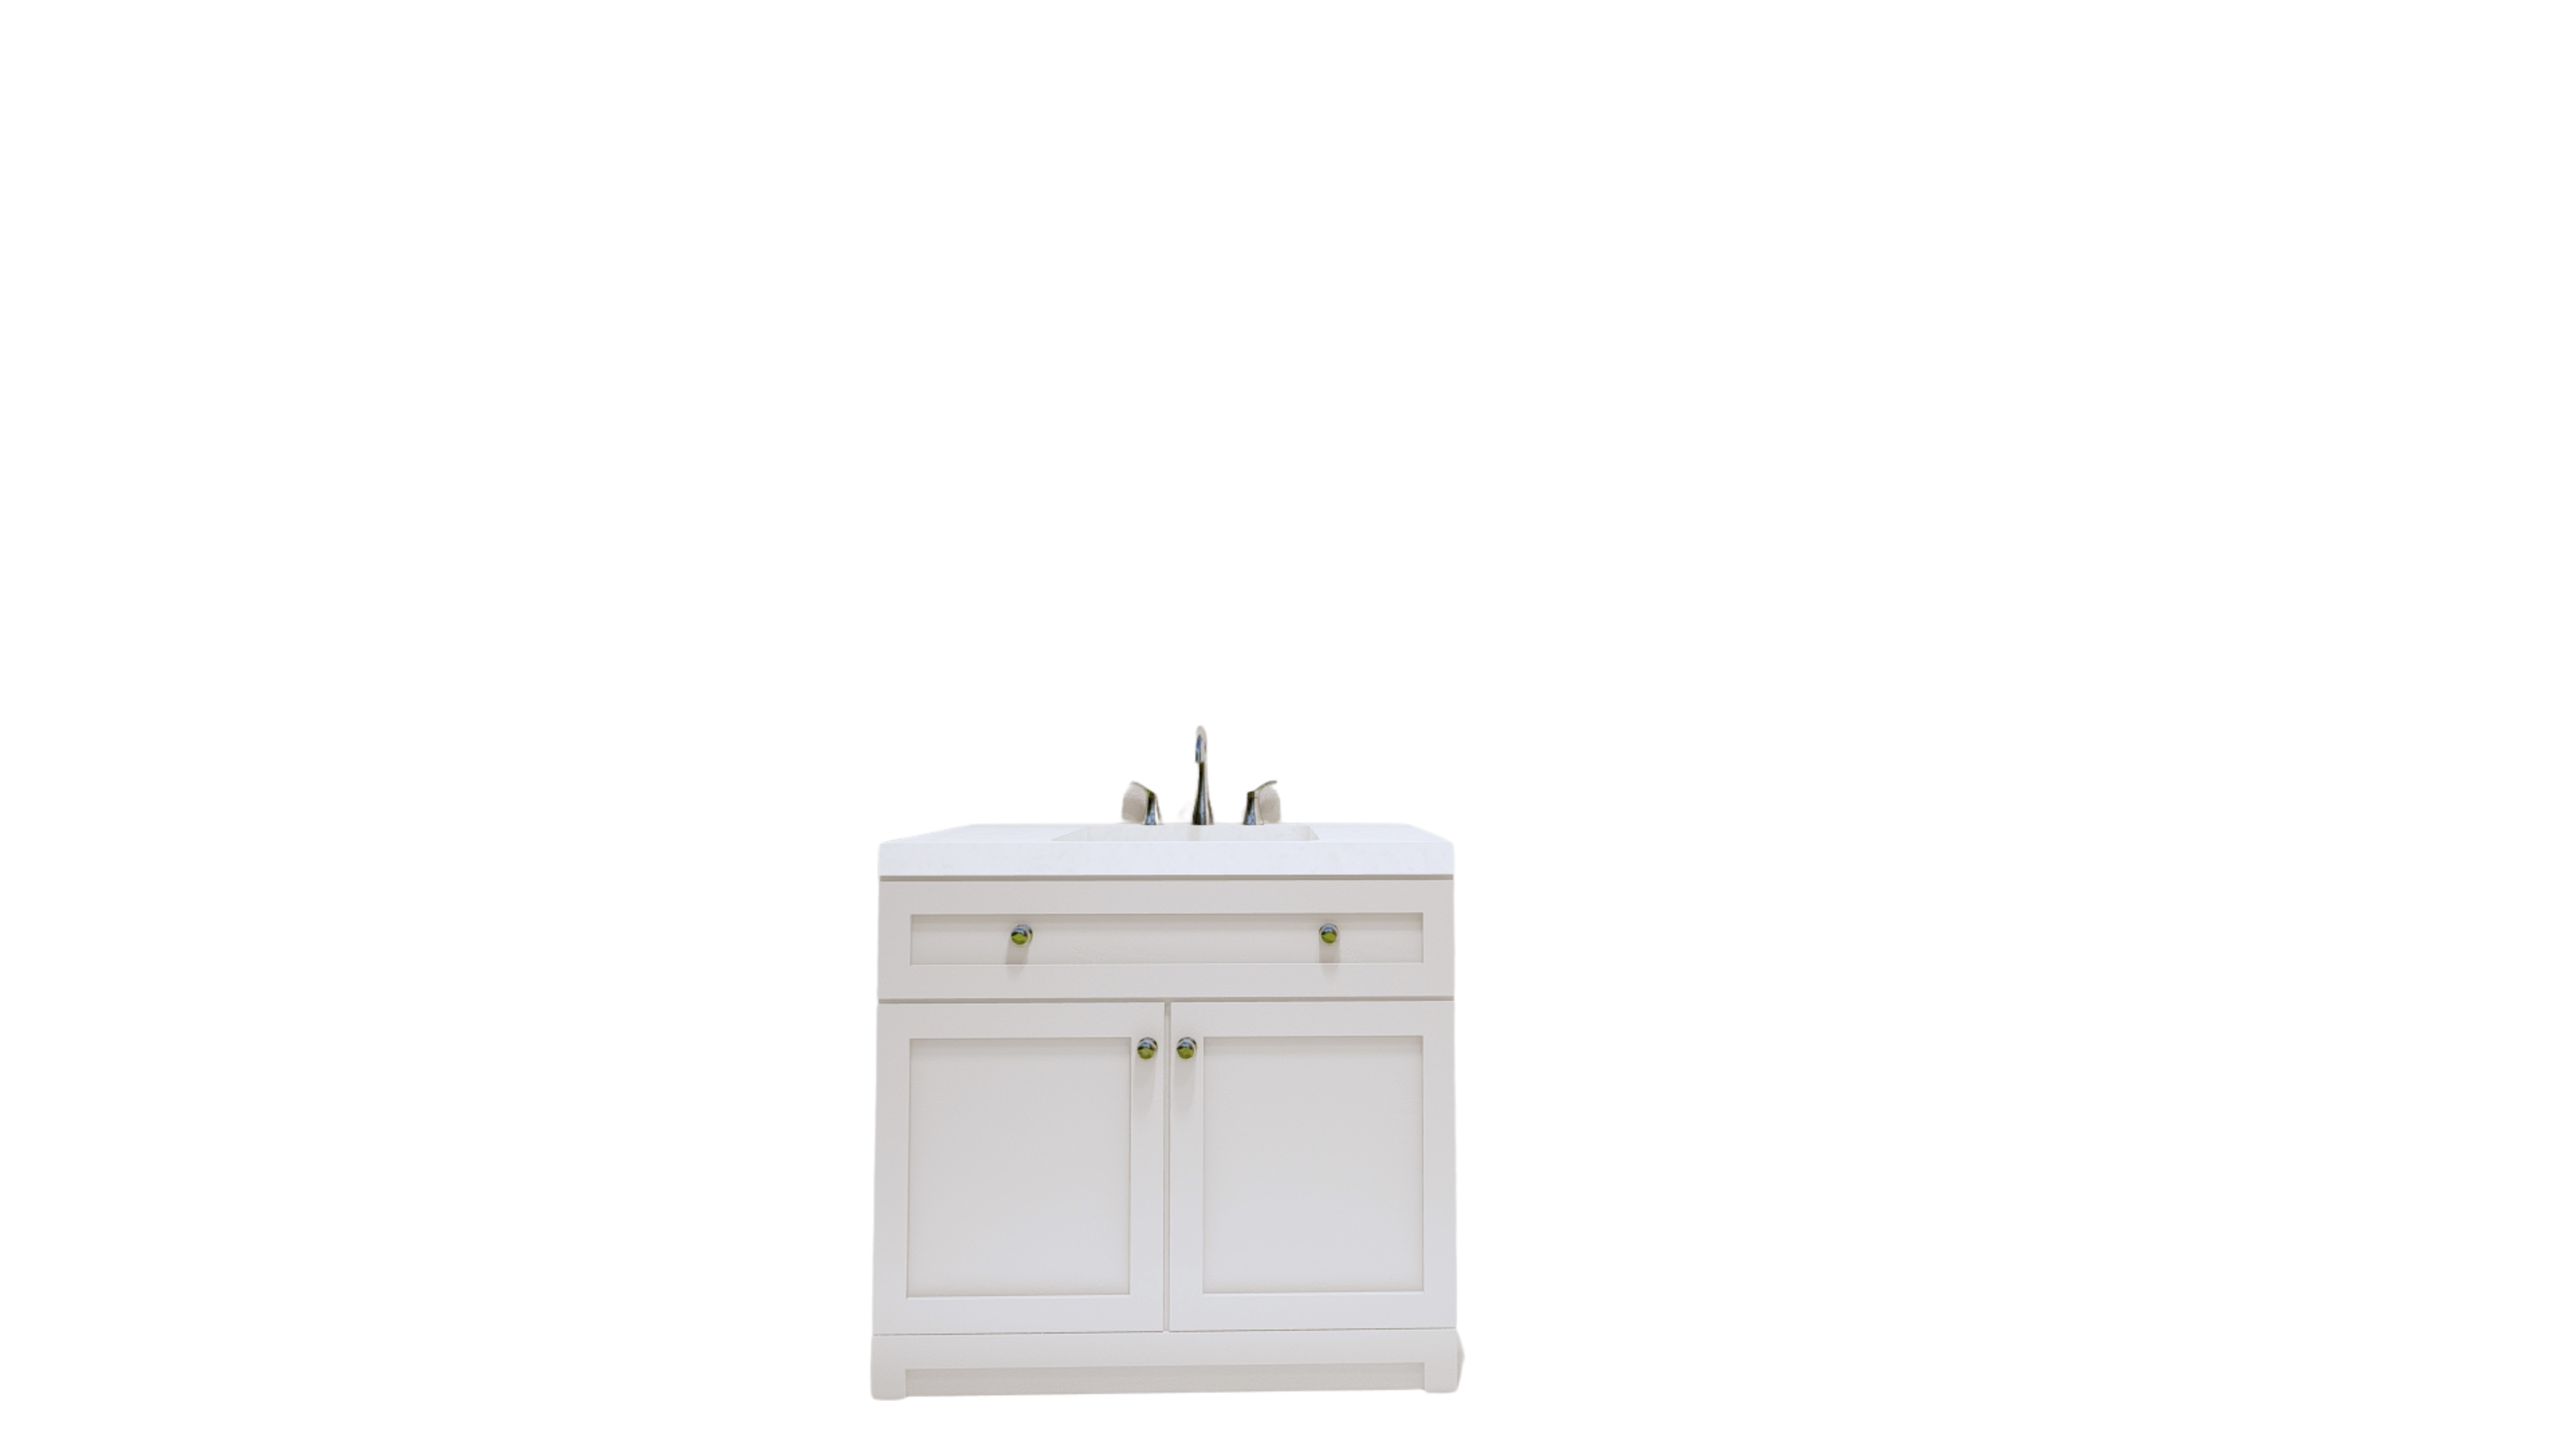
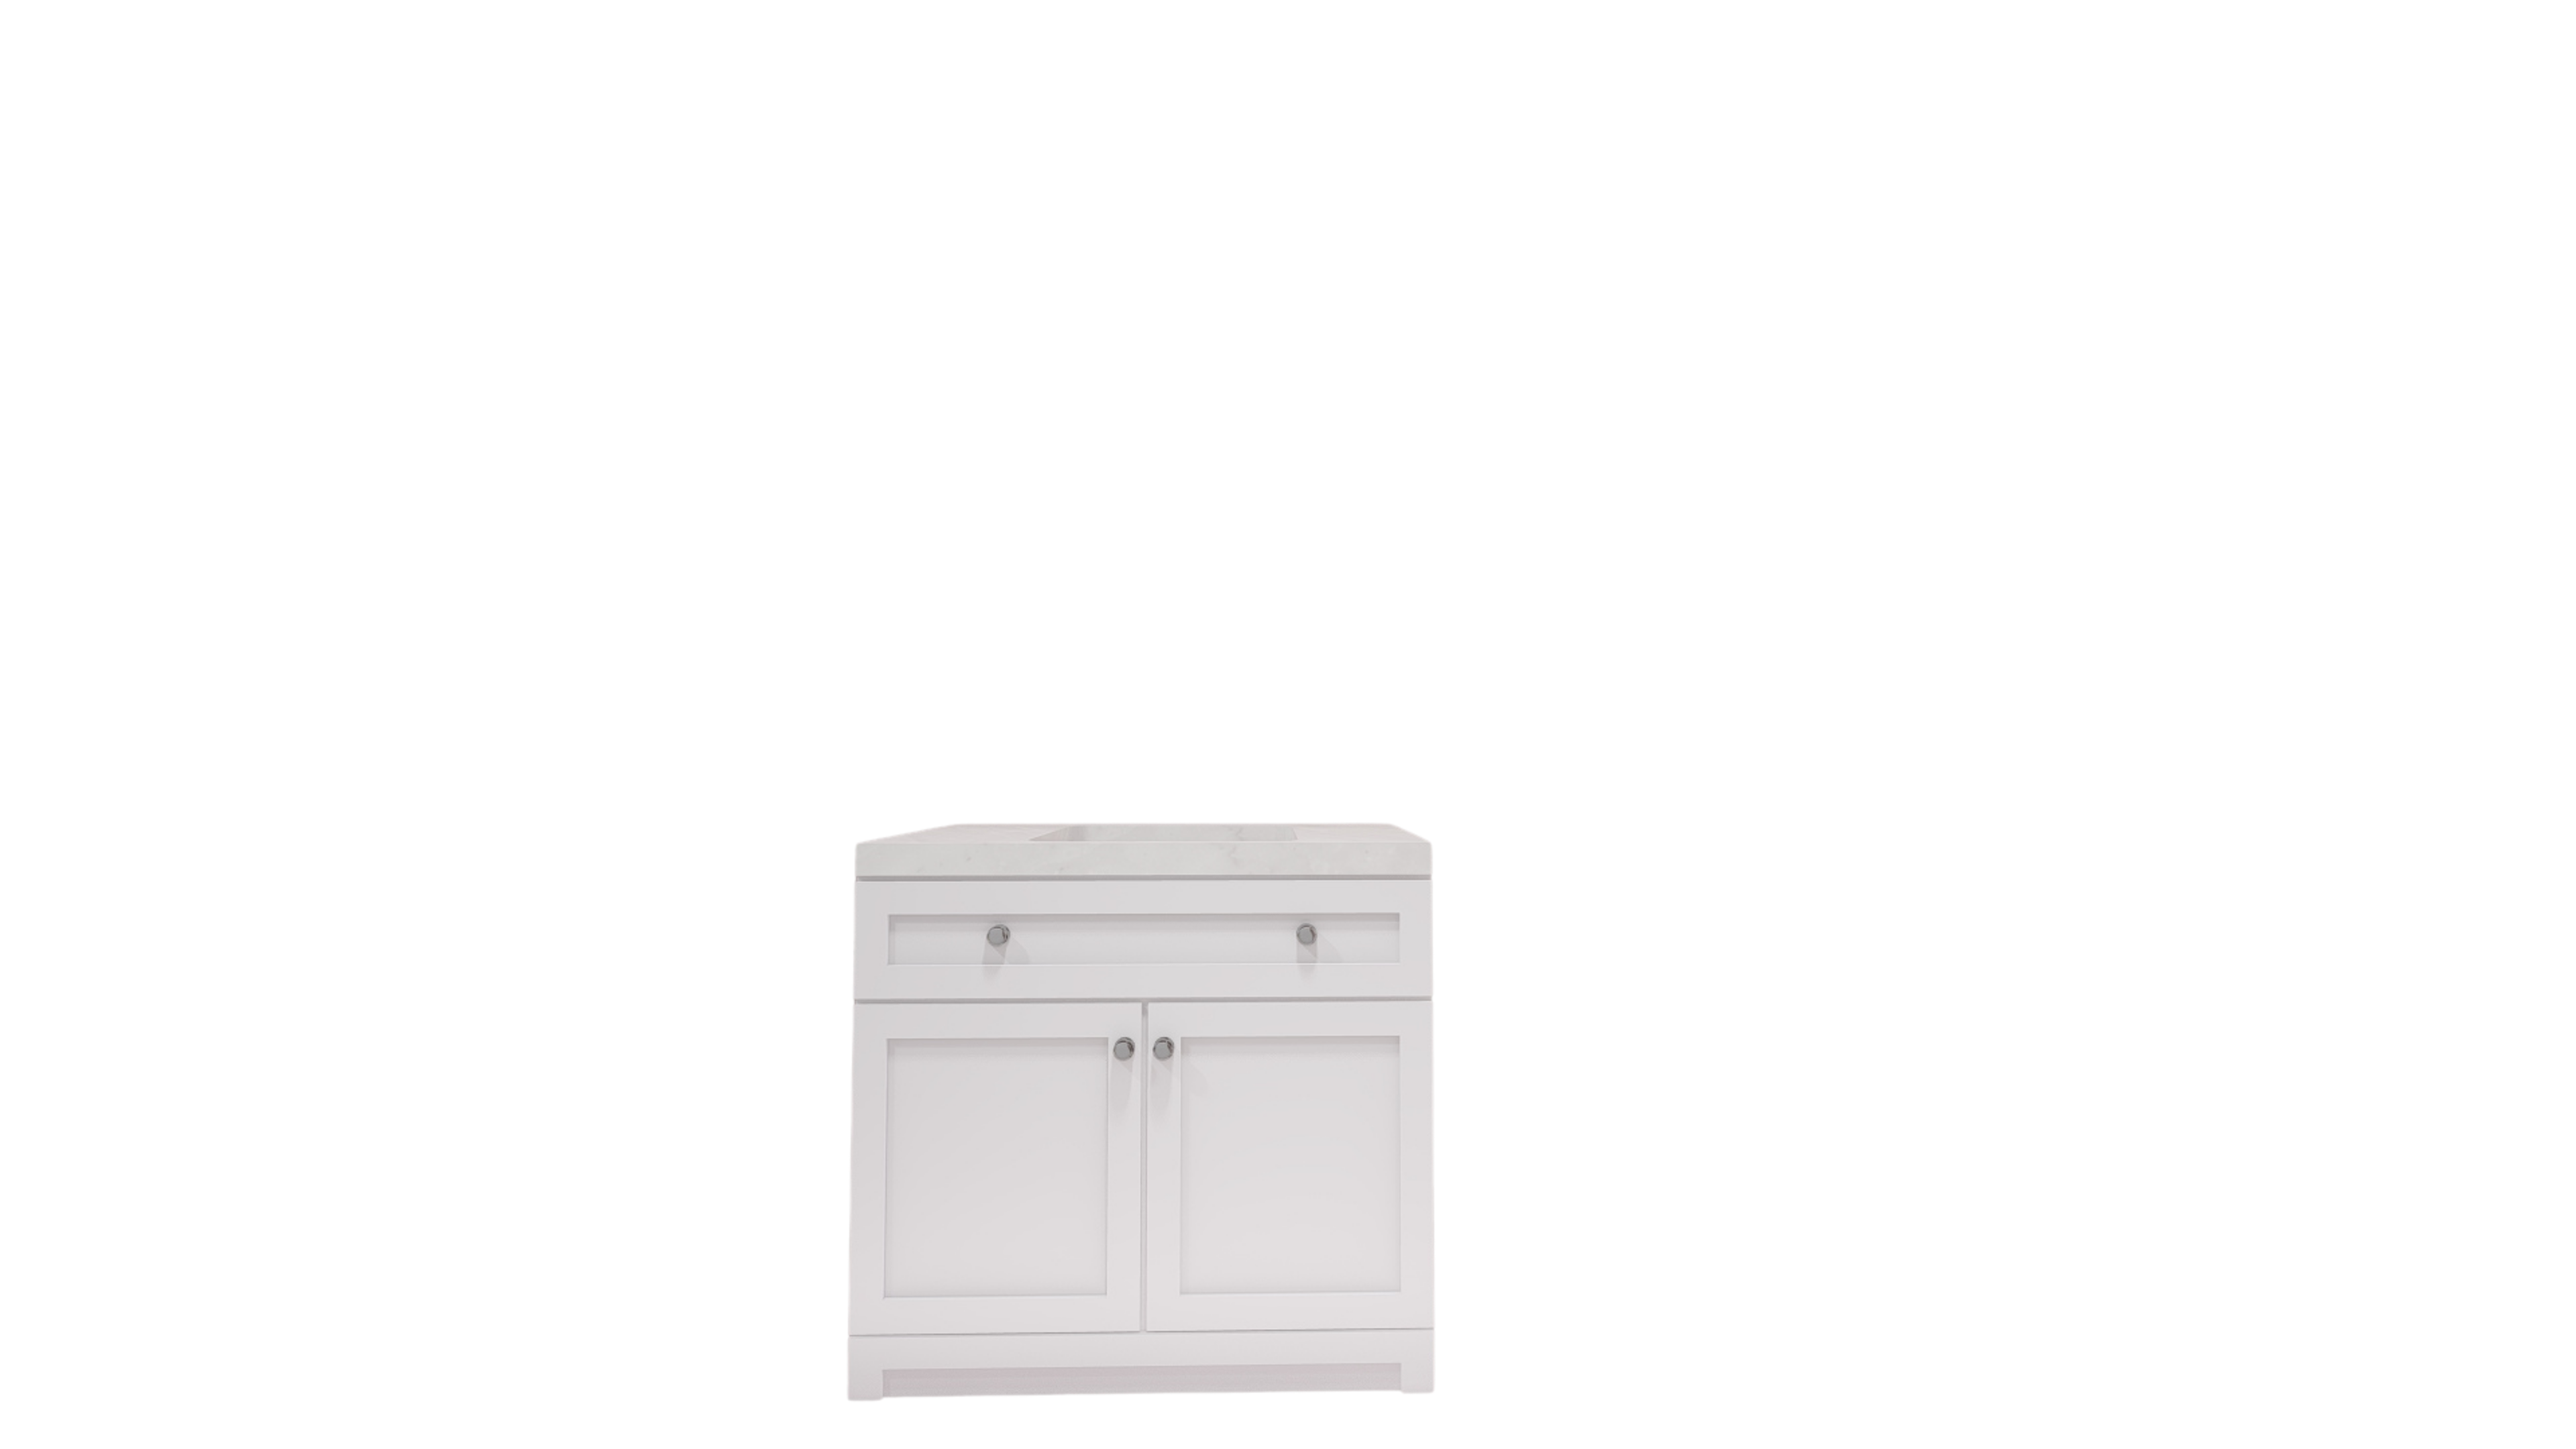
Version 11, separated sink faucets and vanity shelves

Changed region(s): [[0.3125, 0.4963, 0.5938, 0.9616], [0.4375, 0.7134, 0.4688, 0.7444]]

diff --git a/src/data/products/sink-faucets.js b/src/data/products/sink-faucets.js
@@ -1,0 +1,161 @@
+export const sinkFaucetCategories = [
+  {
+    id: "sinkFaucets",
+    initialAngle: "side",
+    label: "Sink Faucets",
+    zIndex: "10",
+    shapesAllowed: ["tub", "tub-to-shower", "curved", "neo-angle", "alcove"],
+    products: [
+      {
+        id: "sf1",
+        name: "Pfister Weller",
+        tiers: {
+          basic: ["Chrome"],
+          standard: ["Nickel"],
+          premium: ["Black"],
+        },
+        displayByColor: {
+          Chrome: {
+            productDisplay:
+              "https://mobileimages.lowes.com/productimages/5418f3c6-c311-4536-94b3-acf871b2e2b5/00418164.jpg?size=pdhz",
+            designDisplay: {
+              side: "/configurator/products/sink-faucets/design/sink-faucet1-chrome.png",
+            },
+          },
+          Black: {
+            productDisplay:
+              "https://mobileimages.lowes.com/productimages/183a5fab-c37c-4acf-9e71-d4c39af4e35b/69608672.jpeg?size=pdhz",
+            designDisplay: {
+              side: "/configurator/products/sink-faucets/design/sink-faucet1-black.png",
+            },
+          },
+          Nickel: {
+            productDisplay:
+              "https://mobileimages.lowes.com/productimages/dd13b199-9432-4e16-a7dd-db736aae1f14/62087853.jpg?size=pdhz",
+            designDisplay: {
+              side: "/configurator/products/sink-faucets/design/sink-faucet1-nickel.png",
+            },
+          },
+        },
+      },
+      {
+        id: "sf2",
+        name: "Gorency",
+        tiers: {
+          basic: ["Chrome"],
+          standard: ["Nickel"],
+          premium: ["Black"],
+        },
+        displayByColor: {
+          Chrome: {
+            productDisplay:
+              "https://s.alicdn.com/@sc04/kf/H73fe1c657227401aa625fceed940afe42/GORENCY-Smart-Water-Automatic-Tap-Auto-Sensors-Faucet-Bathroom-Infrared-Basin-Mixer-Faucet-Hot-Sale-Black-Laser-Cotton-Body-OEM.jpg_300x300.jpg",
+            designDisplay: {
+              side: "/configurator/products/sink-faucets/design/sink-faucet2-chrome.png",
+            },
+          },
+          Black: {
+            productDisplay:
+              "https://s.alicdn.com/@sc04/kf/H73fe1c657227401aa625fceed940afe42/GORENCY-Smart-Water-Automatic-Tap-Auto-Sensors-Faucet-Bathroom-Infrared-Basin-Mixer-Faucet-Hot-Sale-Black-Laser-Cotton-Body-OEM.jpg_300x300.jpg",
+            designDisplay: {
+              side: "/configurator/products/sink-faucets/design/sink-faucet2-black.png",
+            },
+          },
+          Nickel: {
+            productDisplay:
+              "https://s.alicdn.com/@sc04/kf/H73fe1c657227401aa625fceed940afe42/GORENCY-Smart-Water-Automatic-Tap-Auto-Sensors-Faucet-Bathroom-Infrared-Basin-Mixer-Faucet-Hot-Sale-Black-Laser-Cotton-Body-OEM.jpg_300x300.jpg",
+            designDisplay: {
+              side: "/configurator/products/sink-faucets/design/sink-faucet2-nickel.png",
+            },
+          },
+        },
+      },
+      {
+        id: "sf3",
+        name: "Kierland",
+        tiers: {
+          basic: ["Chrome"],
+          standard: ["Nickel"],
+          premium: ["Black"],
+        },
+        displayByColor: {
+          Chrome: {
+            productDisplay:
+              "https://images.pfisterfaucets.com/is/image/WebAssets/pf_kierland_lf-049-kiegs_c1?wid=600&qlt=80&resMode=sharp&fmt=png-alpha",
+            designDisplay: {
+              side: "/configurator/products/sink-faucets/design/sink-faucet3-chrome.png",
+            },
+          },
+          Black: {
+            productDisplay:
+              "https://images.pfisterfaucets.com/is/image/WebAssets/pf_kierland_lf-049-kiebb_c1?wid=600&qlt=80&resMode=sharp&fmt=png-alpha",
+            designDisplay: {
+              side: "/configurator/products/sink-faucets/design/sink-faucet3-black.png",
+            },
+          },
+          Nickel: {
+            productDisplay:
+              "https://images.pfisterfaucets.com/is/image/WebAssets/pf_kierland_lf-049-kiegs_c1?wid=600&qlt=80&resMode=sharp&fmt=png-alpha",
+            designDisplay: {
+              side: "/configurator/products/sink-faucets/design/sink-faucet3-nickel.png",
+            },
+          },
+        },
+      },
+      {
+        id: "sf4",
+        name: "Delta Eldren",
+        tiers: {
+          standard: ["Chrome", "Nickel"],
+          premium: ["Black"],
+        },
+        displayByColor: {
+          Chrome: {
+            productDisplay:
+              "https://mobileimages.lowes.com/productimages/ffaebc20-d244-4b52-bbe5-eeff15a26a06/65453956.png?size=pdhz",
+            designDisplay: {
+              side: "/configurator/products/sink-faucets/design/sink-faucet4-chrome.png",
+            },
+          },
+          Black: {
+            productDisplay:
+              "https://mobileimages.lowes.com/productimages/bbaa271b-aef1-4e02-af30-323ebe7f1e51/65453755.png?size=pdhz",
+            designDisplay: {
+              side: "/configurator/products/sink-faucets/design/sink-faucet4-black.png",
+            },
+          },
+          Nickel: {
+            productDisplay:
+              "https://mobileimages.lowes.com/productimages/926dc19f-3125-43f0-b0de-4f41eea9e536/65453700.png?size=pdhz",
+            designDisplay: {
+              side: "/configurator/products/sink-faucets/design/sink-faucet4-nickel.png",
+            },
+          },
+        },
+      },
+      {
+        id: "sf5",
+        name: "Riobel Zendo",
+        tiers: {
+          premium: ["Black", "Chrome"],
+        },
+        displayByColor: {
+          Chrome: {
+            productDisplay:
+              "https://bathemp.ca/wp-content/uploads/2017/05/p-145035-0003371_riobel-zendo-8-lavatory-faucet-zo08-600x600.jpeg",
+            designDisplay: {
+              side: "/configurator/products/sink-faucets/design/sink-faucet5-chrome.png",
+            },
+          },
+          Black: {
+            productDisplay:
+              "https://bathemp.ca/wp-content/uploads/2017/04/Riobel-Zendo-ZO08BK.jpg",
+            designDisplay: {
+              side: "/configurator/products/sink-faucets/design/sink-faucet5-black.png",
+            },
+          },
+        },
+      },
+    ],
+  },
+];

diff --git a/src/data/products/vanityShelves.js b/src/data/products/vanityShelves.js
@@ -10,7 +10,7 @@ export const vanityShelvesCategories = [
         id: "vs1",
         name: "Basic 1",
         tiers: {
-          basic: ["White", "Brown", "Wood"],
+          basic: ["White", "Black", "Wood"],
         },
         displayByColor: {
           White: {
@@ -20,11 +20,11 @@ export const vanityShelvesCategories = [
               side: "/configurator/products/vanity-shelves/design/basic1-white.png",
             },
           },
-          Brown: {
+          Black: {
             productDisplay:
-              "/configurator/products/vanity-shelves/design/basic1-brown.png",
+              "/configurator/products/vanity-shelves/design/basic1-black.png",
             designDisplay: {
-              side: "/configurator/products/vanity-shelves/design/basic1-brown.png",
+              side: "/configurator/products/vanity-shelves/design/basic1-black.png",
             },
           },
           Wood: {
@@ -144,41 +144,41 @@ export const vanityShelvesCategories = [
           },
         },
       },
-      {
-        id: "vs7",
-        name: "Premium 2",
-        tiers: {
-          premium: ["Blue", "Wood"],
-        },
-        displayByColor: {
-          Blue: {
-            productDisplay:
-              "/configurator/products/vanity-shelves/design/premium2-blue.png",
-            designDisplay: {
-              side: "/configurator/products/vanity-shelves/design/premium2-blue.png",
-            },
-          },
-          Wood: {
-            productDisplay:
-              "/configurator/products/vanity-shelves/design/premium2-wood.png",
-            designDisplay: {
-              side: "/configurator/products/vanity-shelves/design/premium2-wood.png",
-            },
-          },
-        },
-      },
+      // {
+      //   id: "vs7",
+      //   name: "Premium 2",
+      //   tiers: {
+      //     premium: ["Blue", "Wood"],
+      //   },
+      //   displayByColor: {
+      //     Blue: {
+      //       productDisplay:
+      //         "/configurator/products/vanity-shelves/design/premium2-blue.png",
+      //       designDisplay: {
+      //         side: "/configurator/products/vanity-shelves/design/premium2-blue.png",
+      //       },
+      //     },
+      //     Wood: {
+      //       productDisplay:
+      //         "/configurator/products/vanity-shelves/design/premium2-wood.png",
+      //       designDisplay: {
+      //         side: "/configurator/products/vanity-shelves/design/premium2-wood.png",
+      //       },
+      //     },
+      //   },
+      // },
       {
         id: "vs8",
         name: "Premium 3",
         tiers: {
-          premium: ["Brown", "Wood", "Pearl"],
+          premium: ["Black", "Wood", "Pearl"],
         },
         displayByColor: {
-          Brown: {
+          Black: {
             productDisplay:
-              "/configurator/products/vanity-shelves/design/premium3-brown.png",
+              "/configurator/products/vanity-shelves/design/premium3-black.png",
             designDisplay: {
-              side: "/configurator/products/vanity-shelves/design/premium3-brown.png",
+              side: "/configurator/products/vanity-shelves/design/premium3-black.png",
             },
           },
           Wood: {

diff --git a/src/data/products/index.js b/src/data/products/index.js
@@ -13,6 +13,7 @@ import { vanityShelvesCategories } from "./vanityShelves";
 import { mirrorCategories } from "./vanityMirrors";
 import { lightsCategories } from "./vanityLights";
 import { bathroomColorCategories } from "./bathroom-color";
+import { sinkFaucetCategories } from "./sink-faucets";
 
 const allCategories = [
   ...tubFrontsCategories,
@@ -30,6 +31,7 @@ const allCategories = [
   ...mirrorCategories,
   ...lightsCategories,
   ...bathroomColorCategories,
+  ...sinkFaucetCategories,
 ];
 
 export default allCategories;
